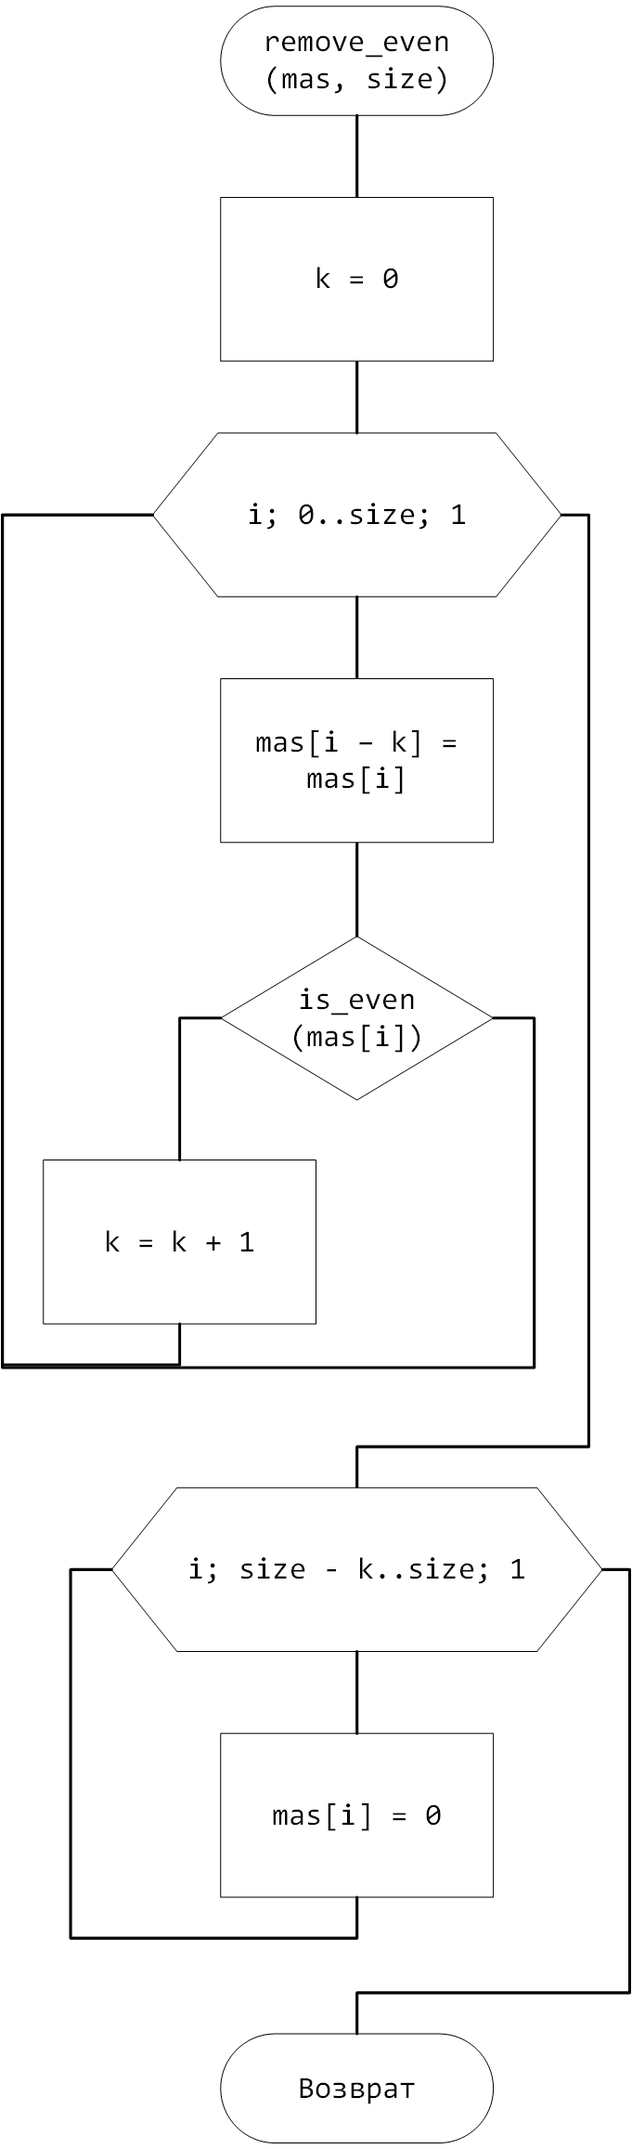
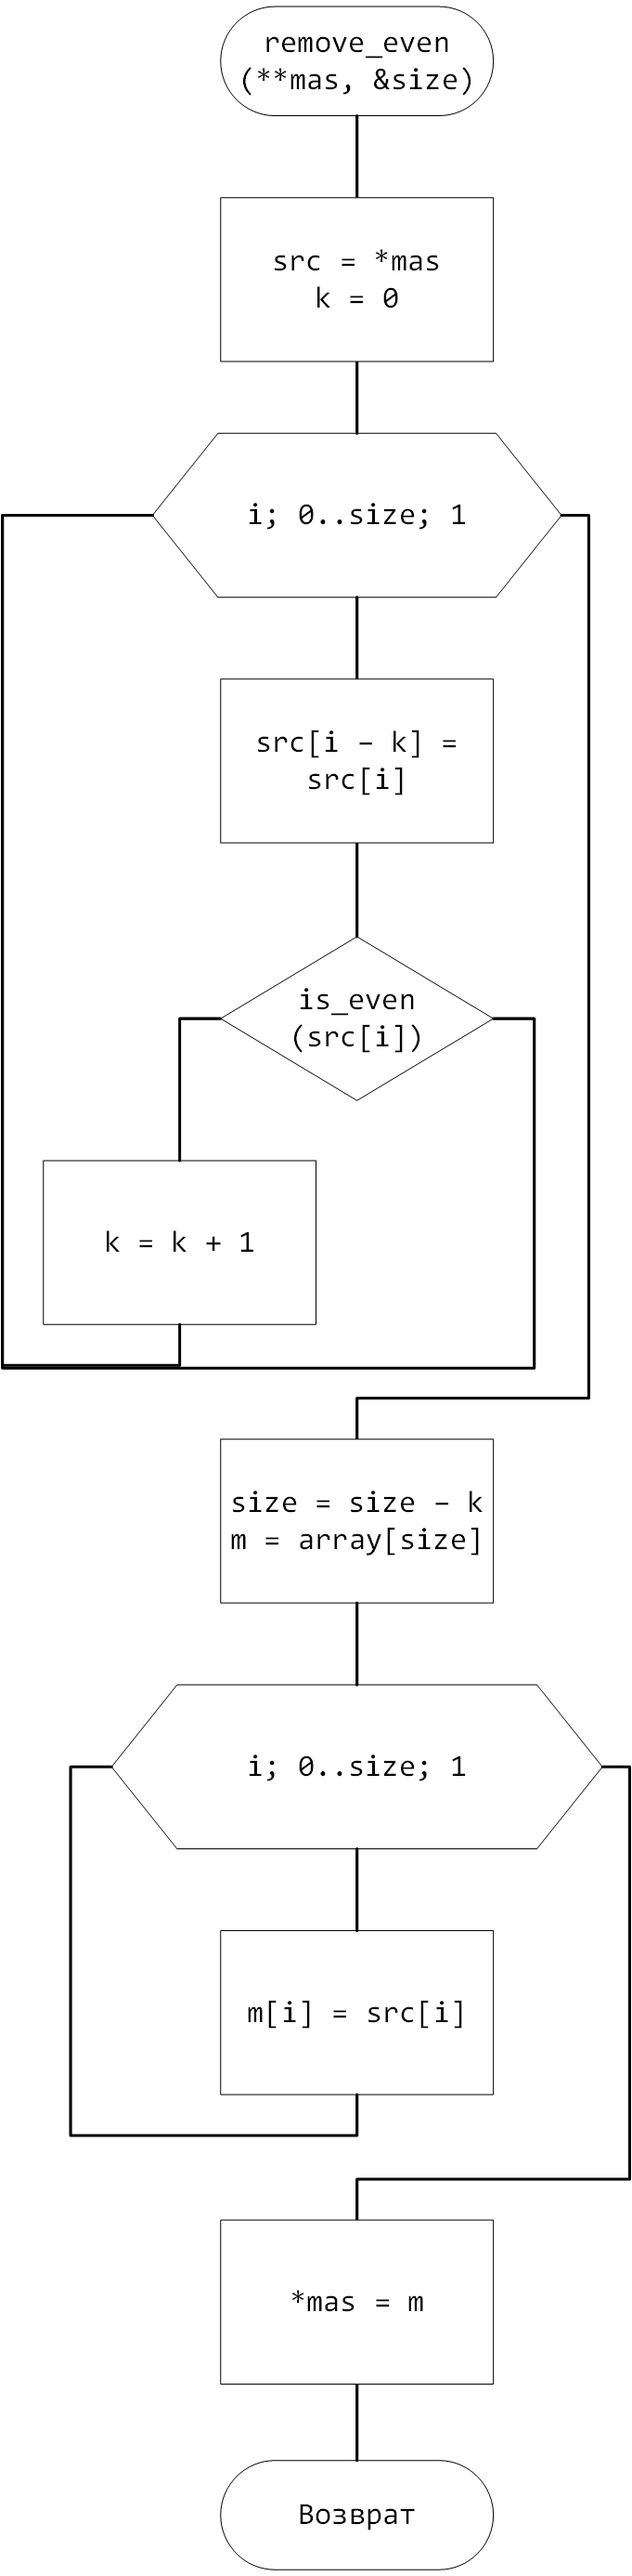
Make remove actually remove elements

diff --git a/Orlova_5/main.cpp b/Orlova_5/main.cpp
@@ -96,22 +96,25 @@ bool is_even(int number)
 	return res;
 }
 
-void remove_even(int* mas, int size)
+void remove_even(int** mas, int &size)
 {
+	int* src = *mas;
 	int k = 0; //количество уже найденных чётных
 	for (int i = 0; i < size; i++)
 	{
-		mas[i - k] = mas[i];
-		if (is_even(mas[i]))
+		src[i - k] = src[i];
+		if (is_even(src[i]))
 		{
 			k++;
 		}
 	}
-
-	for (int i = size - k; i < size; i++)
+	size = size - k;
+	int* m = new int[size];
+	for (int i = 0; i < size; i++)
 	{
-		mas[i] = 0;
+		m[i] = src[i];
 	}
+	*mas = m;
 }
 
 void print_menu()
@@ -201,7 +204,7 @@ int main()
 					cout << "Перед удалением необходимо ввести массив!" << endl;
 					break;
 				}
-				remove_even(mas, size);
+				remove_even(&mas, size);
 				cout << "Чётные числа удалены." << endl;
 				break;
 			}
